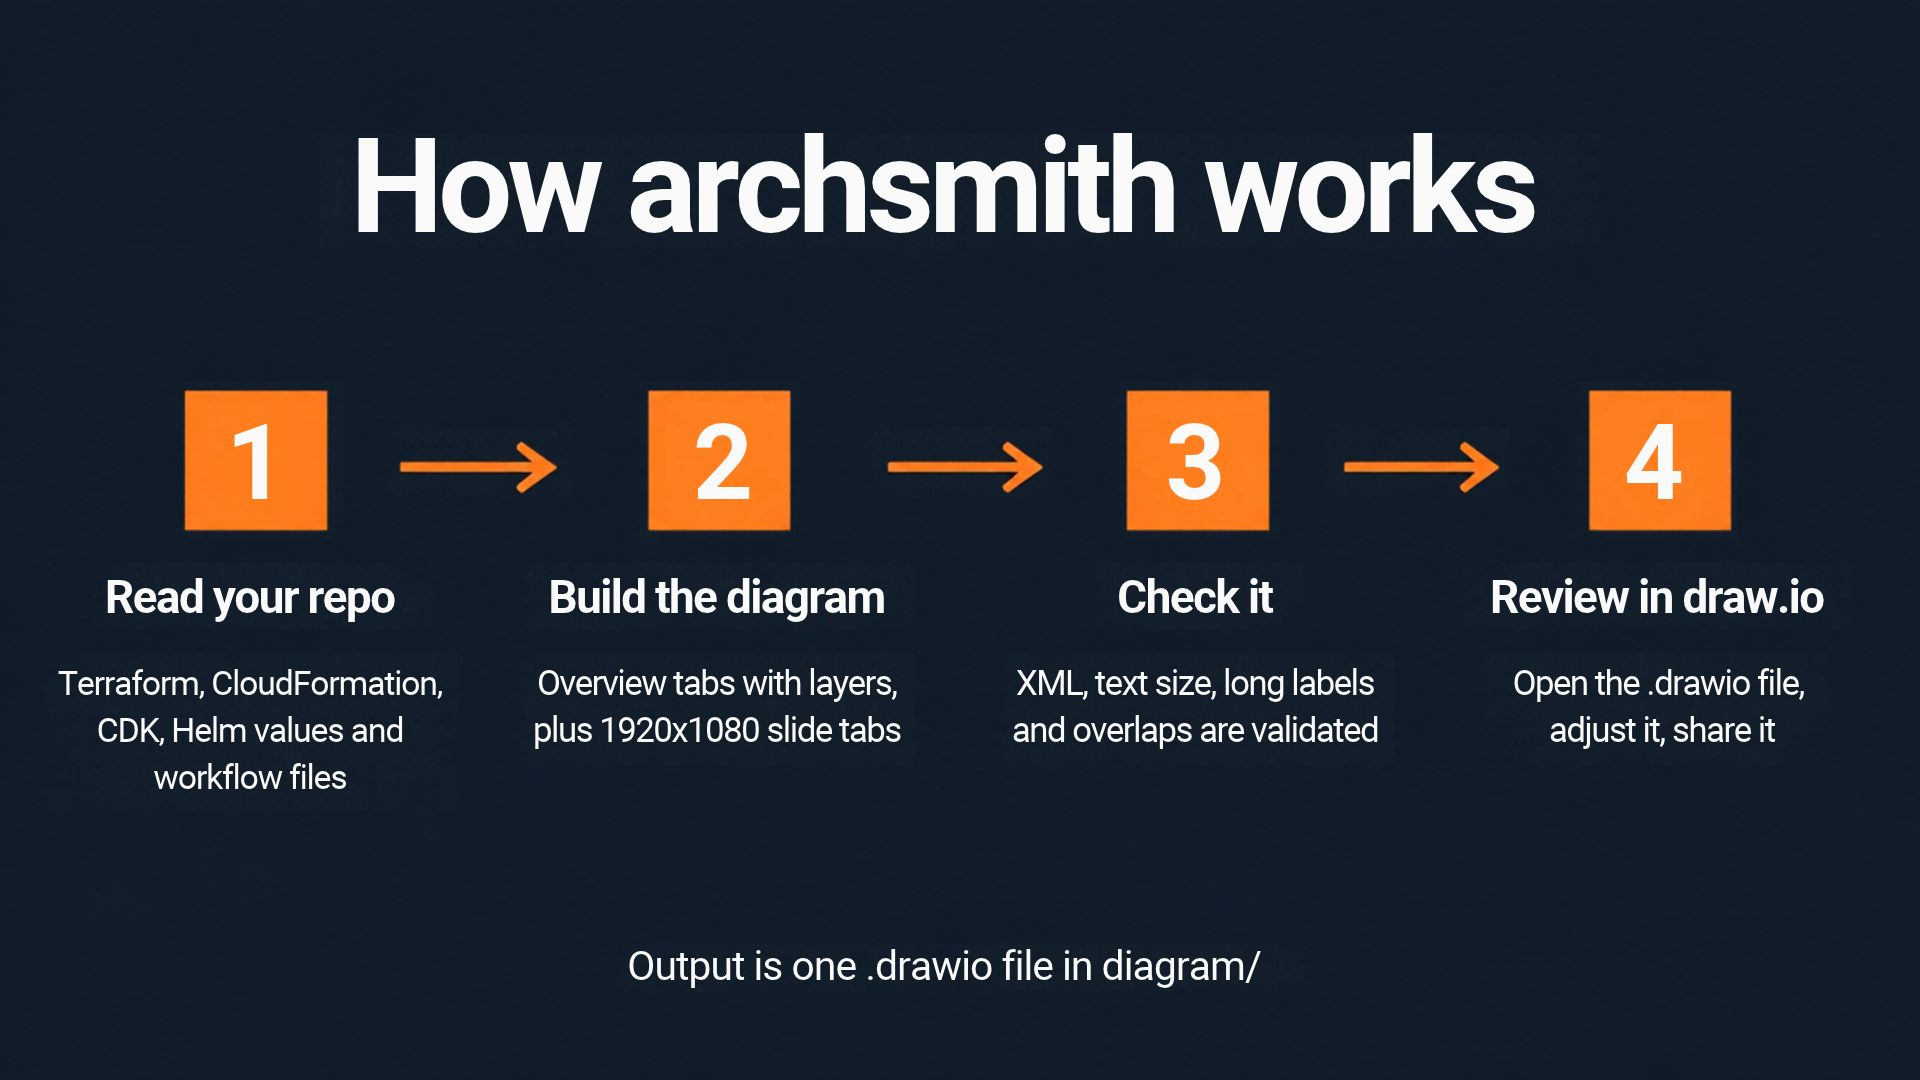
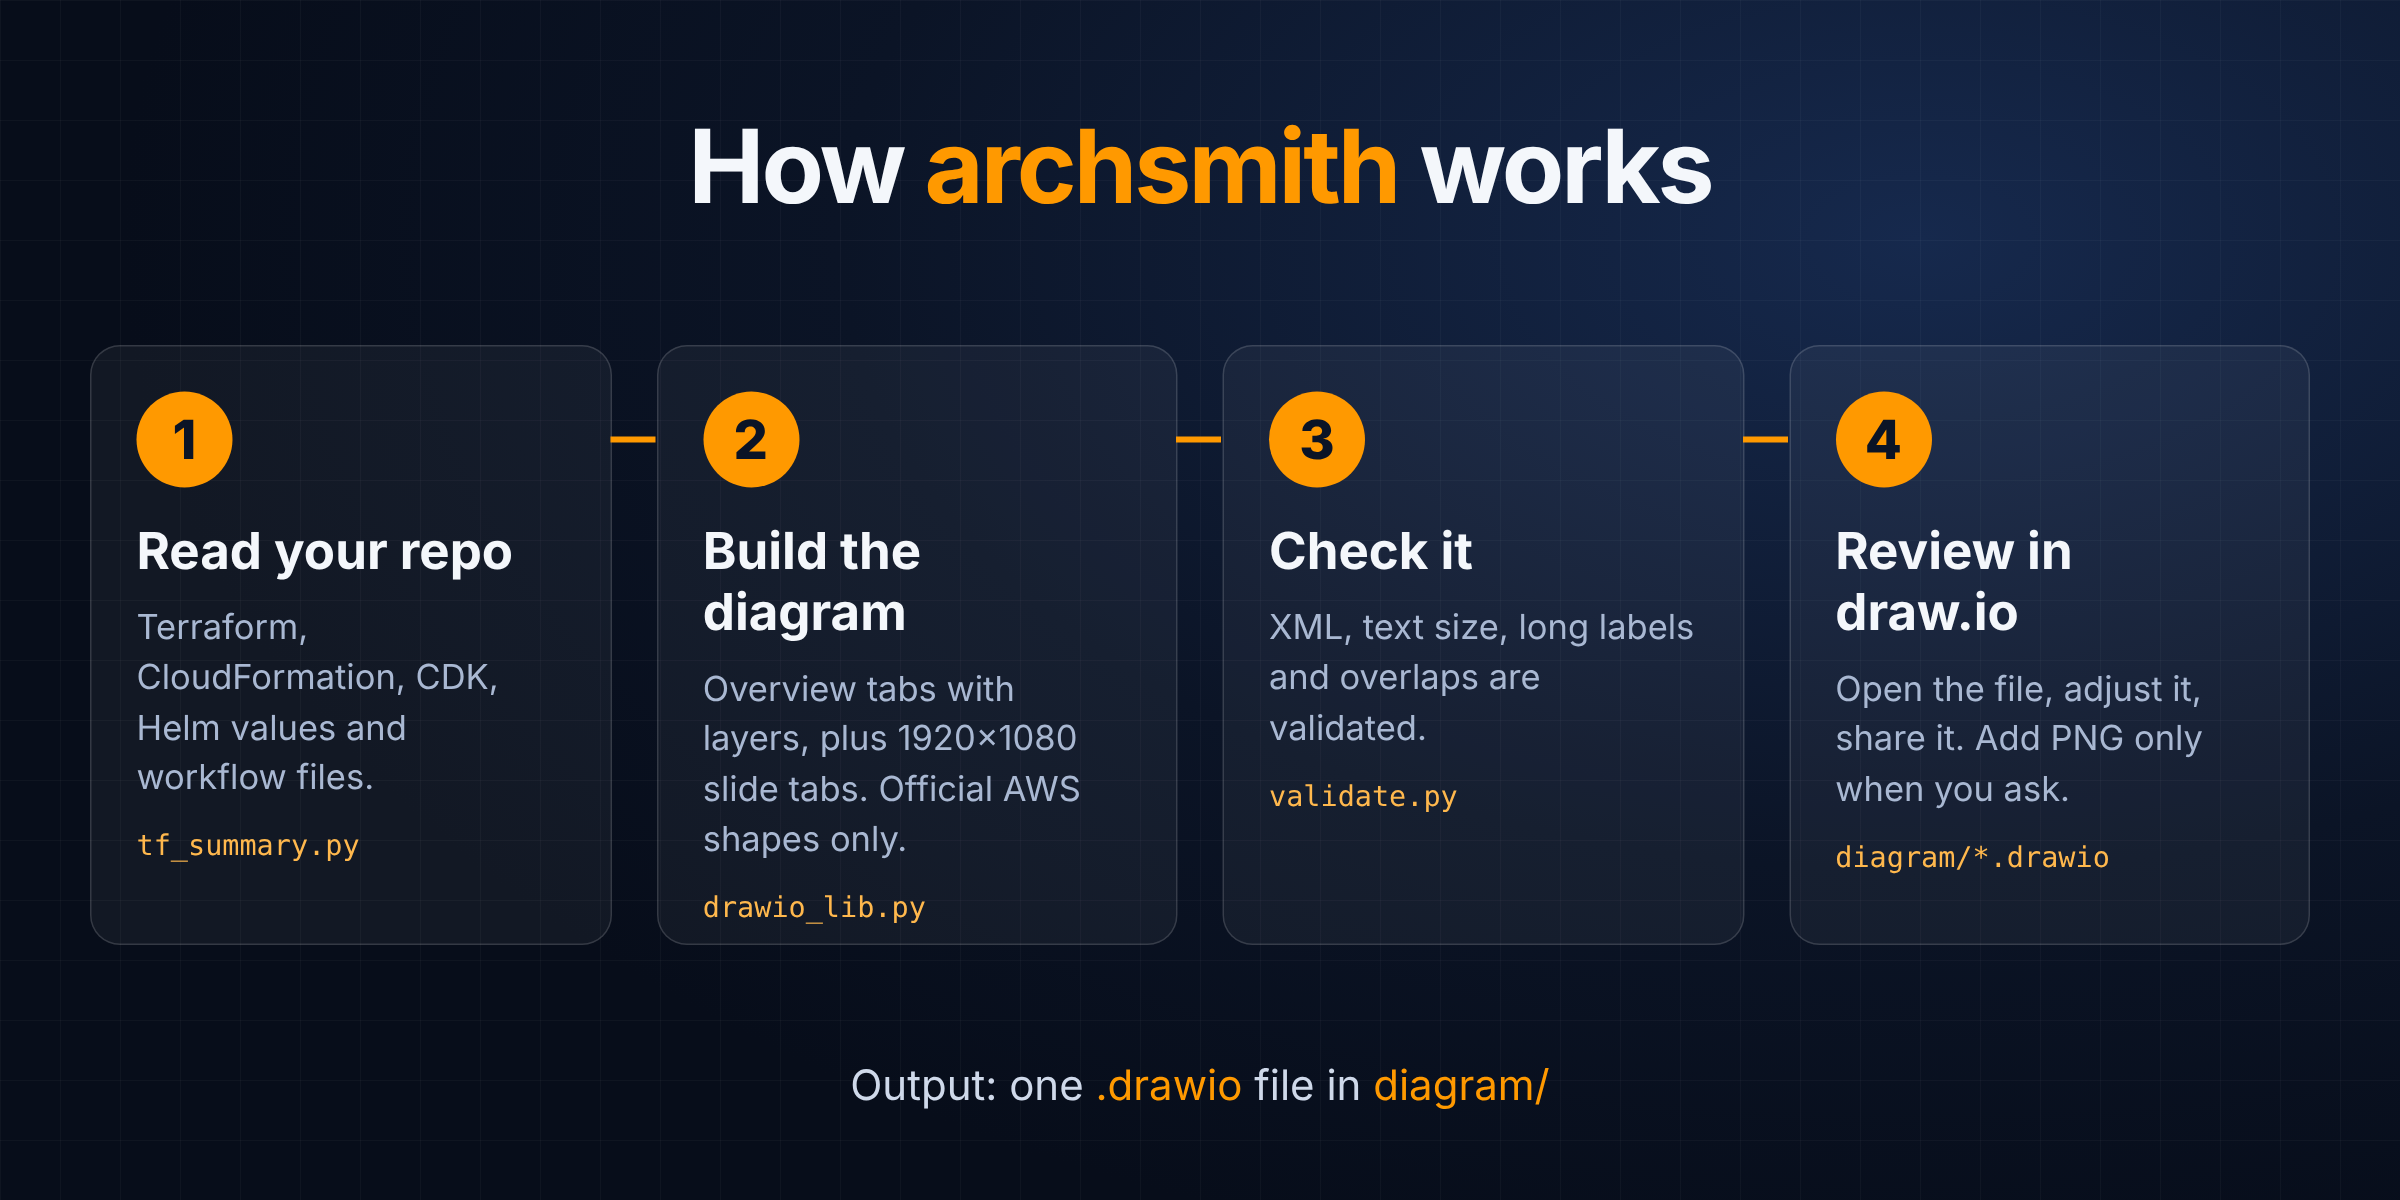
README: updating readme file and refactoring image

Changed region(s): [[0.1875, 0.0306, 0.9688, 0.7333], [0.0312, 0.3056, 0.4688, 0.7639], [0.3125, 0.8861, 0.6562, 0.9167]]

diff --git a/README.md b/README.md
@@ -1,8 +1,4 @@
 <p align="center">
-  <img src="docs/images/hero.jpg" alt="archsmith: draw.io AWS architecture diagrams, built from your Terraform. A Claude Code plugin and portable skill." width="720">
-</p>
-
-<p align="center">
   <a href="https://github.com/nubeninja/archsmith/actions/workflows/ci.yml"><img src="https://github.com/nubeninja/archsmith/actions/workflows/ci.yml/badge.svg" alt="CI status"></a>
   <a href="https://github.com/nubeninja/archsmith/actions/workflows/security.yml"><img src="https://github.com/nubeninja/archsmith/actions/workflows/security.yml/badge.svg" alt="Security checks status"></a>
   <a href="LICENSE"><img src="https://img.shields.io/badge/license-Apache--2.0-blue" alt="License: Apache-2.0"></a>
@@ -41,9 +37,12 @@ The setup asks two things: run as an inline **skill** or an isolated **agent**, 
 
 ## How it works
 
-<p align="center">
-  <img src="docs/images/how-it-works.png" alt="Four steps: read your repo, build the diagram, check it, review it in draw.io. The output is one .drawio file in diagram/." width="720">
-</p>
+```mermaid
+flowchart LR
+    A["Your repo<br/>Terraform, CloudFormation,<br/>CDK, Helm, workflows"] --> B["Build<br/>overview tabs and<br/>1920x1080 slide tabs"]
+    B --> C["Check<br/>XML, font size,<br/>labels, overlaps"]
+    C --> D["diagram/*.drawio<br/>open in draw.io"]
+```
 
 1. **Read your repo.** archsmith summarizes your Terraform first, so the model reads less, and then reads the files it needs.
 2. **Build the diagram.** It generates overview tabs with layers and, by default, slide tabs.
@@ -51,10 +50,6 @@ The setup asks two things: run as an inline **skill** or an isolated **agent**, 
 4. **Review in draw.io.** Open the file, adjust it and share it.
 
 ## Run it as a skill or an agent
-
-<p align="center">
-  <img src="docs/images/skill-vs-agent.png" alt="Skill (default): runs inside your chat, cheaper per run, you can steer it, best for small repos, refreshes and slides. Agent: runs in its own context, keeps your chat clean, uses more tokens in total, best for large repos and full rebuilds." width="720">
-</p>
 
 `/archsmith:setup` asks which mode you want and where the diagrams should go. You can also pass the answers directly:
 
